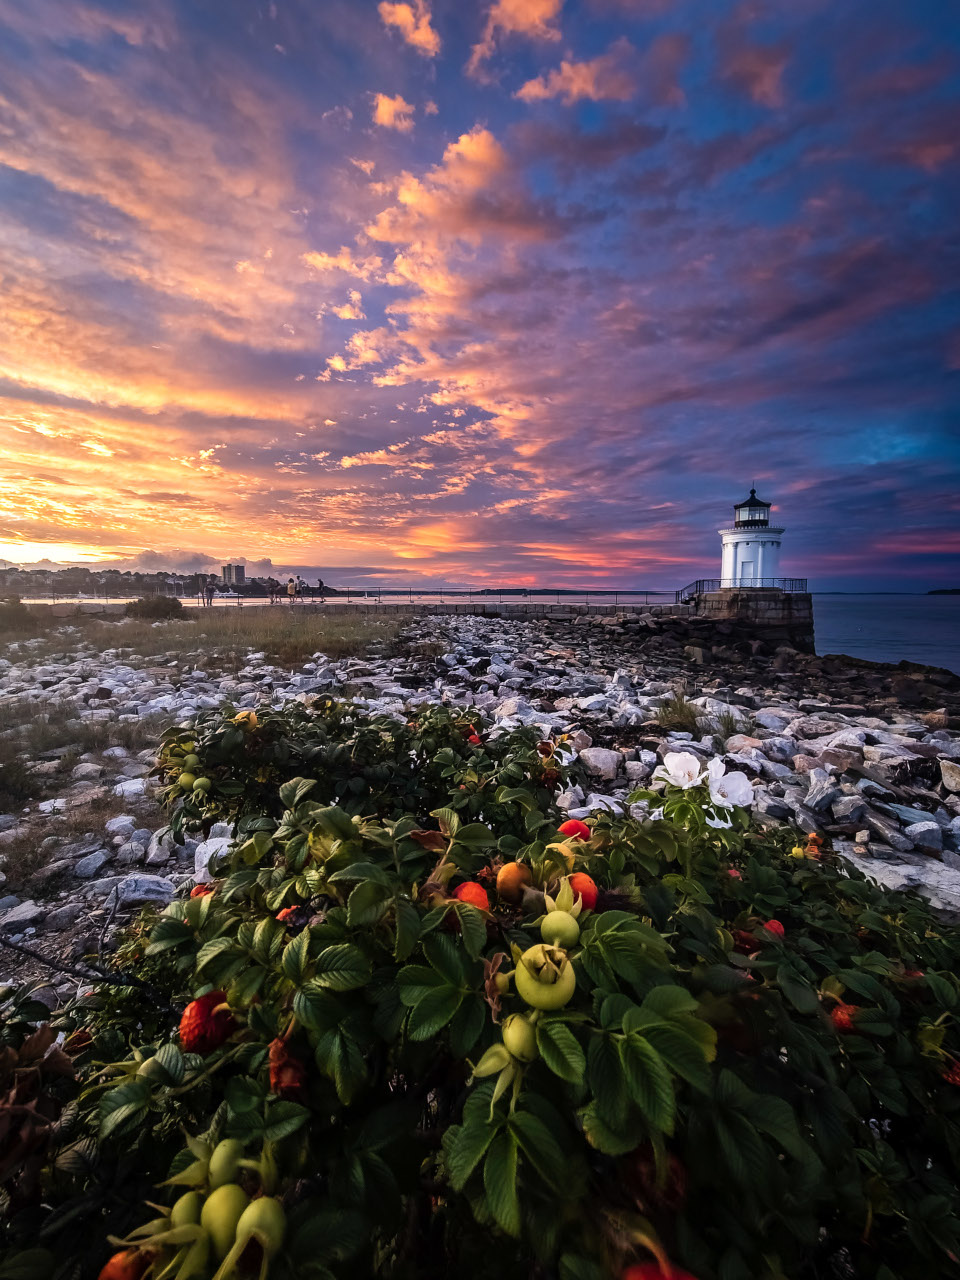
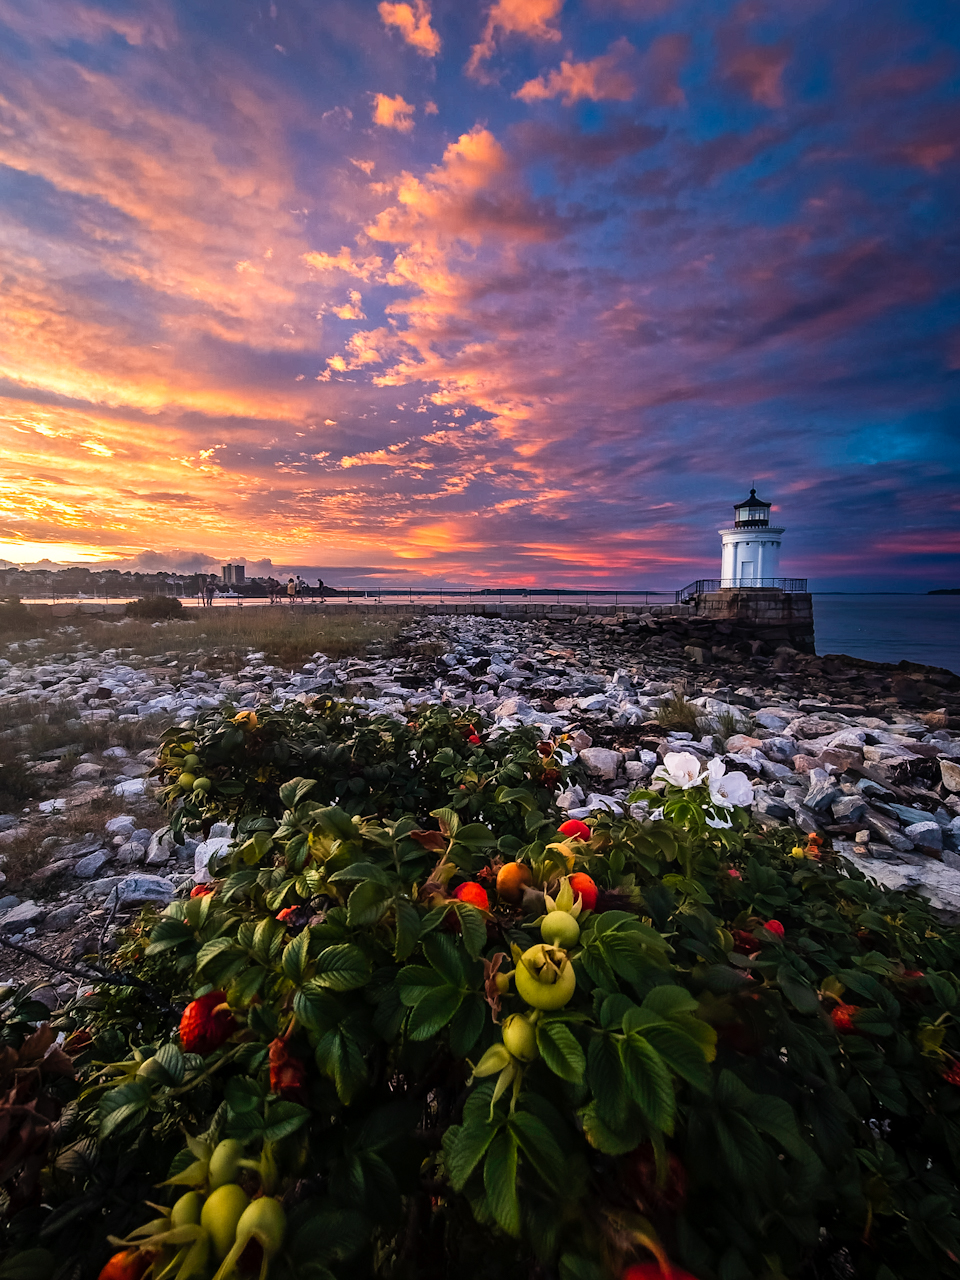
Add White Mountain post and update photo color space

diff --git a/_posts/2022-12-26-fall-white-mountains-1.md b/_posts/2022-12-26-fall-white-mountains-1.md
@@ -1,0 +1,45 @@
+---
+title: "Fall in the White Mountains, Part 1"
+date: 2022-12-26
+last_modified_at: 2022-12-26
+tags:
+  - New England
+  - Travel
+header:
+  image: /assets/images/headers/2022-12-26-fall-white-mountains-1-header.jpg
+  teaser: /assets/images/headers/2022-12-26-fall-white-mountains-1-header.jpg
+---
+
+New England is renowed for its fall colors. Despite reports that the drought would affect this year's foliage, we took our chances to travel to the White Mountains in early October.
+
+## Franconia Notch
+
+After a roughly two hour drive from Boston, our trip started with visiting the famous view from Artist's Bluff. We took the [trail](https://www.alltrails.com/trail/us/new-hampshire/artist-bluff-trail) from the free parking lot at the trail head, skipping the view from Bald Mountain. We were greeted by a wide sweeping vista of the Franconia Notch (notch is just another term for narrow mountain pass that is frequently used in this area) with I-93 cutting through the bottom of the pass.
+
+{% include figure image_path="/assets/images/posts/2022-12-26-fall-white-mountains-1-1.jpg" alt="Artist's Bluff" caption="An iconic view of the Franconia Notch from Artist's Bluff." %}
+
+Even on a Wednesday there were a considerable number of folks there, though far less than what we encountered nearing the weekend. (More on that in a later post.) We then headed down to Echo Lake and checked out the reflections of the surrounding mountains. Although the parking lot next to the lake is paid, it might be worth the cost to park here and hit both Artist's Bluff and the lake if Bald Mountain isn't a priority.
+
+## Kancamagus Highway
+
+Our next stop was driving along the Kancamagus Highway. There are a bunch of different overlooks along the way that are all worth hopping out and taking a look from. Below are a list of them in order from west to east (i.e. driving from Lincoln):
+
+* [Hancock Overlook](https://goo.gl/maps/ZhS3BAh9pHvbrQmU9): as this is the first overlook, it can get crowded; has a famous hairpin loop but you're not allowed to fly drones here
+* [Unnamed Overlook](https://goo.gl/maps/7j4RVhfAxDSjctZa7) (no really, there's not an official name for this overlook yet): often skipped but worth it
+* [Pemigewasset Overlook](https://goo.gl/maps/mrvjMDzBPPZTBtKk6): come here for sunsets
+* [CL Graham Wangan Overlook](https://goo.gl/maps/75uzN93VuwER4fPi9): if the clouds are low enough, you can see them float through the surrounding mountains for a mystical effect
+* [Sugar Hill Scenic Vista](https://goo.gl/maps/HaePDpZRKtrkTspY7): perhaps the least impressive of them all
+
+{% include figure image_path="/assets/images/posts/2022-12-26-fall-white-mountains-1-2.jpg" alt="Pemigewasset Overlook" caption="View over the Kancamagus Highway from Pemigewasset Overlook." %}
+
+After stopping through the overlooks, there are a couple of places worth pulling over for in the valley. [Sabbaday Falls](https://www.fs.usda.gov/recarea/whitemountain/recarea/?recid=74927) is an easily accessible area with an easy walk among waterfalls and a calm creek surrounded by falling leaves. [Rocky Gorge Scenic Area](https://www.fs.usda.gov/recarea/whitemountain/recarea/?recid=74967) is just a little more eastward and is the first paid area among this list (either buy a pass beforehand or make sure to bring cash so you can pay and hang a pass from your windshield). I think the fall foliage around the gorge was more impressive and colorful than that at Sabbaday Falls, but both are still worth visiting. 
+
+{% include figure image_path="/assets/images/posts/2022-12-26-fall-white-mountains-1-3.jpg" alt="Rocky Gorge" caption="Vibrant foliage overhanging the Swift River." %}
+
+We managed to catch sunset over Rocky Gorge, where my girlfriend took this fantastic shot:
+
+{% include figure image_path="/assets/images/posts/2022-12-26-fall-white-mountains-1-4.jpg" alt="Sunset" caption="Orange-tinged clouds at sunset peeking over Rocky Gorge." %}
+
+## Lodging
+
+For the next couple of days, we booked at [White Mountain Motel and Cottages](https://www.whitemountainmotel.com/) for just a little over $100 a night. I'd highly recommend a stay here; the accomodation is clean, quiet, and well-priced, and has amenities like a small fridge and microwave. There are also plenty of outlets and reasonably fast WiFi. 
